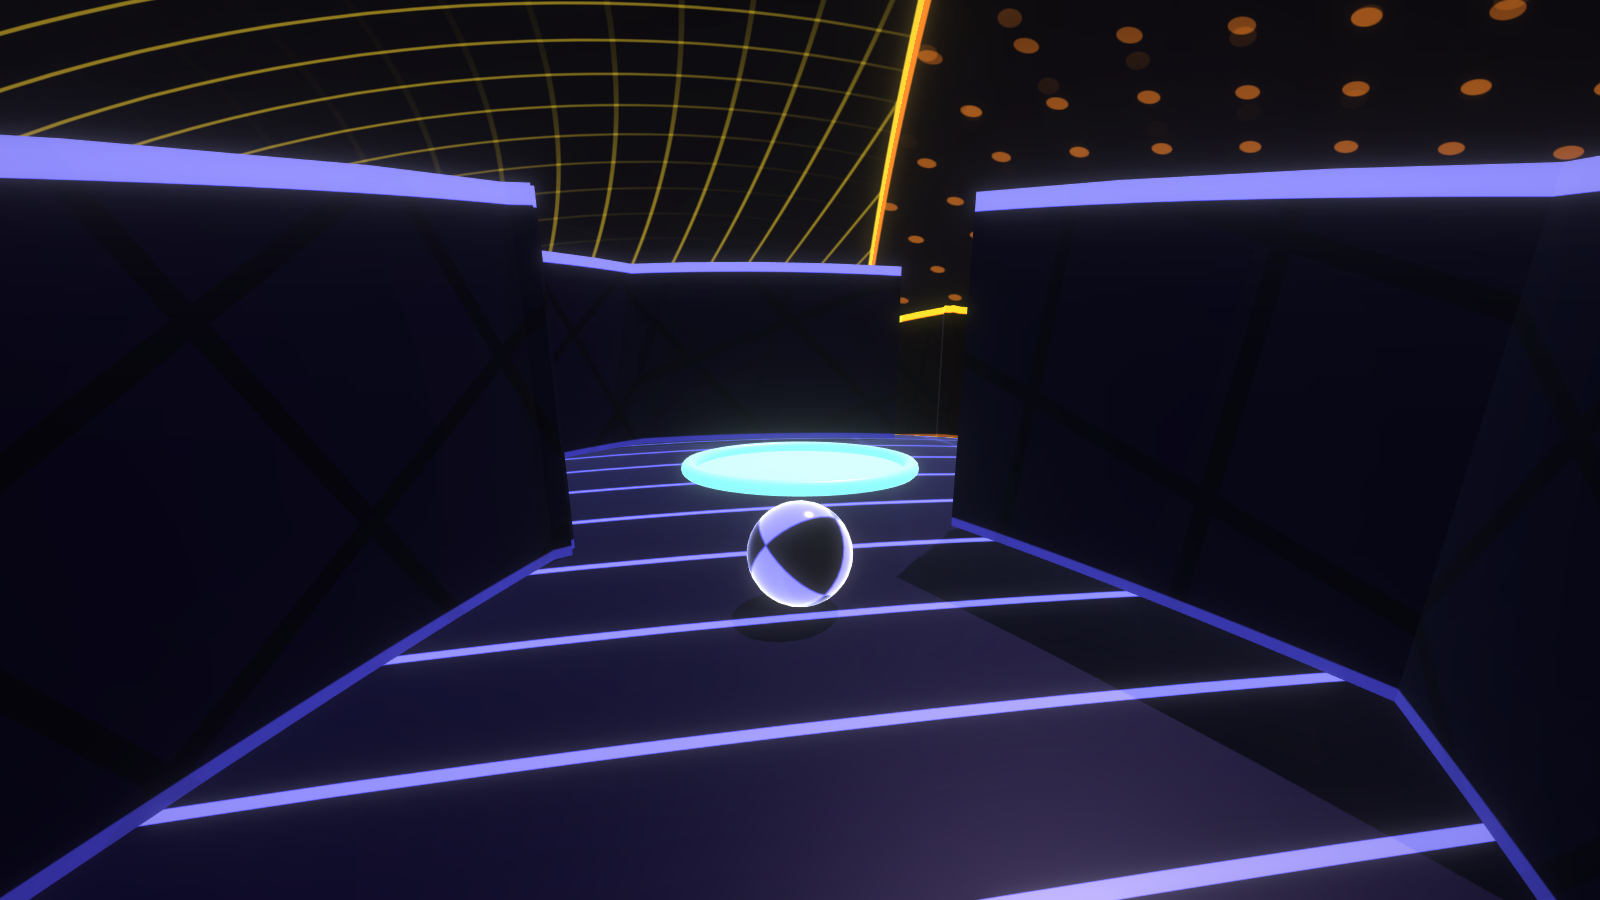
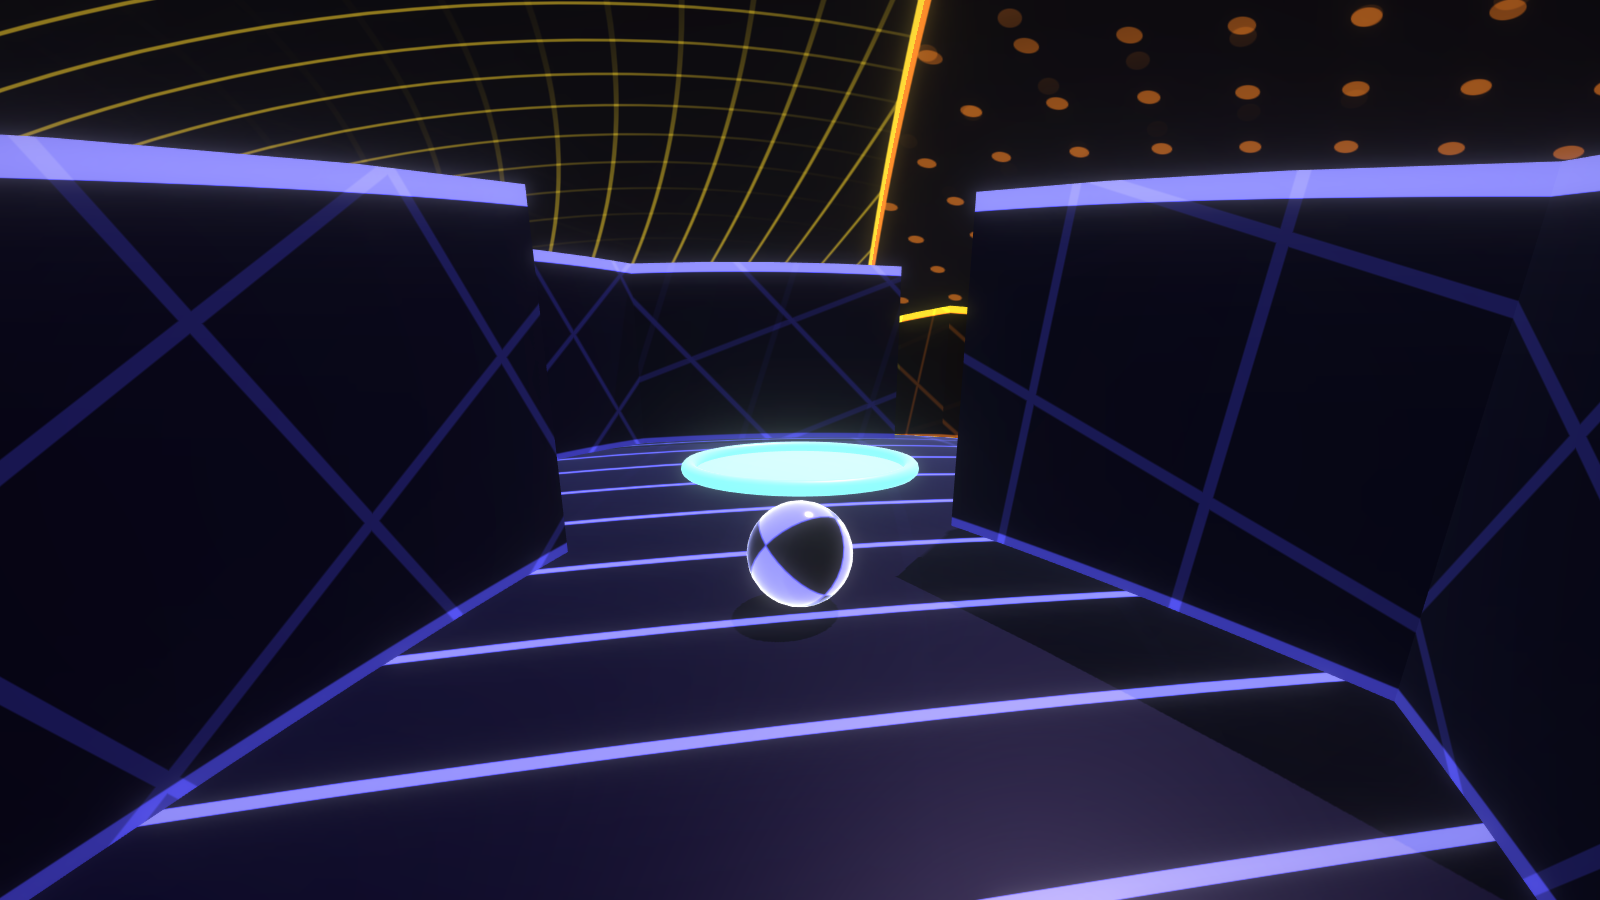
Seamless wall joints and glowing wall panel lines
- Walls are mitered at every joint: at bends the two walls meet along
  the line splitting the corner, and three-way junctions get a small
  triangular cap instead of overlapping tops.
- Walls meeting at a joint share exact corner vertices, so joints are
  watertight with no hairline cracks from rounding.
- Per-vertex normals so curved walls shade smoothly; no panel lines on
  wall tops.
- Wall panel lines glow faintly in the zone color, below the bloom
  threshold, and are thinner than the floor lines.
- README screenshot tool renders a warm-up frame first.

diff --git a/Assets/Scripts/Geometry/MeshBuilders.cs b/Assets/Scripts/Geometry/MeshBuilders.cs
@@ -117,9 +117,35 @@ namespace SphereDescent
             return MakeMesh("Core", verts, normals, new List<int>(ico.Triangles));
         }
 
+        /// <summary>Identifies a wall corner at a joint: the joint point, the two walls, and inside/outside.</summary>
+        readonly struct CornerKey : System.IEquatable<CornerKey>
+        {
+            readonly Vector3 point;
+            readonly int wallA, wallB;
+            readonly bool outside;
+
+            public CornerKey(Vector3 point, int wall, int otherWall, bool outside)
+            {
+                this.point = point;
+                wallA = Mathf.Min(wall, otherWall);
+                wallB = Mathf.Max(wall, otherWall);
+                this.outside = outside;
+            }
+
+            public bool Equals(CornerKey o) => point.Equals(o.point) && wallA == o.wallA && wallB == o.wallB && outside == o.outside;
+            public override bool Equals(object obj) => obj is CornerKey o && Equals(o);
+            public override int GetHashCode() => (point.GetHashCode() * 397 ^ wallA * 31 ^ wallB) * 2 + (outside ? 1 : 0);
+        }
+
         /// <summary>
         /// One combined mesh for every maze wall on a sphere. Each wall follows the great-circle arc between
-        /// its endpoints, sinks slightly into the ground, and is extended by half its thickness so corners close.
+        /// its endpoints and sinks slightly into the ground. Ends are shaped by what meets them, so walls join
+        /// without seams or poking corners: each side of a wall that meets another wall is mitered against it,
+        /// so at a bend the two walls meet along the line that splits the corner, and where three meet they
+        /// leave a small triangle in the middle that gets a cap on top. A free end extends by half the
+        /// thickness. Walls meeting at a joint reuse the exact same corner vertices (and the cap uses them too),
+        /// so joints are watertight rather than relying on separately computed points lining up. Normals are
+        /// per vertex, so the short flat pieces that make up each curved wall shade as one smooth surface.
         /// </summary>
         public static Mesh BuildWalls(IList<(Vector3 p0, Vector3 p1)> walls, float radius, float height, float thickness)
         {
@@ -129,46 +155,154 @@ namespace SphereDescent
             const float sink = 0.6f;
             float half = thickness * 0.5f;
 
-            foreach (var (p0, p1) in walls)
+            // Walls meeting at each endpoint. Shared endpoints are computed identically, so exact keys match.
+            var junctions = new Dictionary<Vector3, List<int>>();
+            for (int w = 0; w < walls.Count; w++)
             {
-                float ang = Vector3.Angle(p0, p1) * Mathf.Deg2Rad;
-                if (ang < 1e-5f) continue;
-                float ext = half / radius;
-                int segments = Mathf.Max(1, Mathf.CeilToInt((ang + 2f * ext) * radius / 2f));
-
-                Vector3 prevDir = Vector3.zero, prevSide = Vector3.zero;
-                for (int i = 0; i <= segments; i++)
+                foreach (var p in new[] { walls[w].p0, walls[w].p1 })
                 {
-                    float t = (-ext + (ang + 2f * ext) * i / segments) / ang;
-                    Vector3 dir = Vector3.SlerpUnclamped(p0, p1, t).normalized;
-                    Vector3 along = Vector3.ProjectOnPlane(p1 - p0, dir).normalized;
-                    Vector3 side = Vector3.Cross(dir, along).normalized * half;
-
-                    if (i == 0) AddWallCap(verts, normals, indices, dir, side, radius, sink, height, -along);
-                    if (i > 0)
-                    {
-                        Vector3 b0 = prevDir * (radius - sink), t0 = prevDir * (radius + height);
-                        Vector3 b1 = dir * (radius - sink), t1 = dir * (radius + height);
-                        Vector3 sideN = ((prevSide + side) * 0.5f).normalized;
-                        Vector3 upN = ((prevDir + dir) * 0.5f).normalized;
-                        AddQuad(verts, normals, indices, b0 + prevSide, t0 + prevSide, t1 + side, b1 + side, sideN);
-                        AddQuad(verts, normals, indices, b0 - prevSide, t0 - prevSide, t1 - side, b1 - side, -sideN);
-                        AddQuad(verts, normals, indices, t0 + prevSide, t0 - prevSide, t1 - side, t1 + side, upN);
-                    }
-                    if (i == segments) AddWallCap(verts, normals, indices, dir, side, radius, sink, height, along);
-                    prevDir = dir;
-                    prevSide = side;
+                    if (!junctions.TryGetValue(p, out var list)) junctions[p] = list = new List<int>(3);
+                    list.Add(w);
                 }
             }
 
-            return MakeMesh("Walls", verts, normals, indices);
-        }
+            // Unit direction along the surface from endpoint p into wall w.
+            Vector3 Into(int w, Vector3 p)
+            {
+                Vector3 other = walls[w].p0 == p ? walls[w].p1 : walls[w].p0;
+                return Vector3.ProjectOnPlane(other - p, p).normalized;
+            }
 
-        static void AddWallCap(List<Vector3> verts, List<Vector3> normals, List<int> indices,
-            Vector3 dir, Vector3 side, float radius, float sink, float height, Vector3 facing)
-        {
-            Vector3 b = dir * (radius - sink), t = dir * (radius + height);
-            AddQuad(verts, normals, indices, b + side, t + side, t - side, b - side, facing);
+            // How far (radians, along the arc beyond endpoint p) each side of wall w runs, and which shared
+            // corner each side ends on. "Left" is the side Cross(up, into the wall) points to.
+            void EndExtension(int w, Vector3 p, out float left, out float right, out CornerKey? leftCorner, out CornerKey? rightCorner)
+            {
+                var meeting = junctions[p];
+                left = right = half / radius;
+                leftCorner = rightCorner = null;
+                if (meeting.Count == 1) return;
+                Vector3 into = Into(w, p);
+                Vector3 leftDir = Vector3.Cross(p, into);
+                // Miter each side against the neighboring wall on that side: the side facing a wall is cut
+                // short so the two meet along the line splitting the angle between them. At a bend the outer
+                // side, with no wall to face, runs on just as far to meet the other wall's outer corner.
+                float leftMiter = float.NaN, rightMiter = float.NaN;
+                int leftWall = -1, rightWall = -1;
+                foreach (int o in meeting)
+                {
+                    if (o == w) continue;
+                    Vector3 other = Into(o, p);
+                    float angle = Vector3.Angle(into, other) * Mathf.Deg2Rad;
+                    float miter = Mathf.Clamp(half / Mathf.Tan(angle * 0.5f), 0f, 2f * half) / radius;
+                    if (Vector3.Dot(leftDir, other) > 0f)
+                    {
+                        if (float.IsNaN(leftMiter) || miter < leftMiter) { leftMiter = miter; leftWall = o; }
+                    }
+                    else if (float.IsNaN(rightMiter) || miter < rightMiter) { rightMiter = miter; rightWall = o; }
+                }
+                // A side with no wall to face (the outside of a bend) shares its corner with the other wall's
+                // outside instead.
+                left = float.IsNaN(leftMiter) ? rightMiter : -leftMiter;
+                right = float.IsNaN(rightMiter) ? leftMiter : -rightMiter;
+                leftCorner = leftWall >= 0 ? new CornerKey(p, w, leftWall, false) : new CornerKey(p, w, rightWall, true);
+                rightCorner = rightWall >= 0 ? new CornerKey(p, w, rightWall, false) : new CornerKey(p, w, leftWall, true);
+            }
+
+            // Corner vertices (bottom, top) shared by the walls meeting at each joint: the first wall to reach
+            // a joint stores its corner and the other reuses it exactly.
+            var sharedCorners = new Dictionary<CornerKey, (Vector3 bottom, Vector3 top)>();
+            void ShareCorner(CornerKey? key, ref Vector3 bottom, ref Vector3 top)
+            {
+                if (key == null) return;
+                if (sharedCorners.TryGetValue(key.Value, out var shared)) { bottom = shared.bottom; top = shared.top; }
+                else sharedCorners[key.Value] = (bottom, top);
+            }
+
+            // Top corners of the walls around each three-way junction, which outline the cap's triangle.
+            var capCorners = new Dictionary<Vector3, List<Vector3>>();
+
+            for (int w = 0; w < walls.Count; w++)
+            {
+                var (p0, p1) = walls[w];
+                float ang = Vector3.Angle(p0, p1) * Mathf.Deg2Rad;
+                if (ang < 1e-5f) continue;
+                // Sides as seen walking from p0 to p1: "a" is the side Cross(up, along) points to.
+                EndExtension(w, p0, out float startA, out float startB, out var startCornerA, out var startCornerB);
+                // From p1, "into the wall" points back toward p0, which swaps left and right.
+                EndExtension(w, p1, out float endB, out float endA, out var endCornerB, out var endCornerA);
+                int segments = Mathf.Max(1, Mathf.CeilToInt((ang + 2f * half / radius) * radius / 2f));
+
+                Vector3 prevA = Vector3.zero, prevB = Vector3.zero, prevSideA = Vector3.zero, prevSideB = Vector3.zero;
+                Vector3 pBaseA = Vector3.zero, pTopA = Vector3.zero, pBaseB = Vector3.zero, pTopB = Vector3.zero;
+                for (int i = 0; i <= segments; i++)
+                {
+                    float f = (float)i / segments;
+                    // Both sides follow the same arc but can start and end at different points (miters).
+                    Vector3 dirA = Vector3.SlerpUnclamped(p0, p1, (-startA + (ang + startA + endA) * f) / ang).normalized;
+                    Vector3 dirB = Vector3.SlerpUnclamped(p0, p1, (-startB + (ang + startB + endB) * f) / ang).normalized;
+                    Vector3 sideA = Vector3.Cross(dirA, Vector3.ProjectOnPlane(p1 - p0, dirA)).normalized;
+                    Vector3 sideB = Vector3.Cross(dirB, Vector3.ProjectOnPlane(p1 - p0, dirB)).normalized;
+                    Vector3 baseA = dirA * (radius - sink) + sideA * half, topA = dirA * (radius + height) + sideA * half;
+                    Vector3 baseB = dirB * (radius - sink) - sideB * half, topB = dirB * (radius + height) - sideB * half;
+                    if (i == 0)
+                    {
+                        ShareCorner(startCornerA, ref baseA, ref topA);
+                        ShareCorner(startCornerB, ref baseB, ref topB);
+                    }
+                    if (i == segments)
+                    {
+                        ShareCorner(endCornerA, ref baseA, ref topA);
+                        ShareCorner(endCornerB, ref baseB, ref topB);
+                    }
+
+                    Vector3 endPoint = i == 0 ? p0 : p1;
+                    bool hub = (i == 0 || i == segments) && junctions[endPoint].Count >= 3;
+                    if (hub)
+                    {
+                        // The end face is hidden under the junction cap; just record the left top corner
+                        // (seen from the junction), which the next wall around shares as its right one.
+                        if (!capCorners.TryGetValue(endPoint, out var corners)) capCorners[endPoint] = corners = new List<Vector3>(3);
+                        corners.Add(i == 0 ? topA : topB);
+                    }
+                    else if (i == 0 || i == segments)
+                    {
+                        // End face, square or mitered.
+                        Vector3 facing = Vector3.Cross(topB - baseA, topA - baseB).normalized;
+                        Vector3 outward = Vector3.ProjectOnPlane(p1 - p0, dirA) * (i == 0 ? -1f : 1f);
+                        if (Vector3.Dot(facing, outward) < 0f) facing = -facing;
+                        AddQuad(verts, normals, indices, baseA, topA, topB, baseB, facing);
+                    }
+                    if (i > 0)
+                    {
+                        AddQuad(verts, normals, indices, pBaseA, pTopA, topA, baseA, prevSideA, prevSideA, sideA, sideA);
+                        AddQuad(verts, normals, indices, pBaseB, pTopB, topB, baseB, -prevSideB, -prevSideB, -sideB, -sideB);
+                        AddQuad(verts, normals, indices, pTopA, pTopB, topB, topA, prevA, prevB, dirB, dirA);
+                    }
+                    prevA = dirA;
+                    prevB = dirB;
+                    prevSideA = sideA;
+                    prevSideB = sideB;
+                    pBaseA = baseA;
+                    pTopA = topA;
+                    pBaseB = baseB;
+                    pTopB = topB;
+                }
+            }
+
+            // Cap the small triangle left in the middle of each three-way junction.
+            foreach (var kv in capCorners)
+            {
+                if (kv.Value.Count != 3) continue;
+                Vector3 up = kv.Key.normalized;
+                var c = kv.Value;
+                int i0 = verts.Count;
+                verts.Add(c[0]); verts.Add(c[1]); verts.Add(c[2]);
+                normals.Add(up); normals.Add(up); normals.Add(up);
+                bool facesUp = Vector3.Dot(Vector3.Cross(c[1] - c[0], c[2] - c[0]), up) >= 0f;
+                indices.Add(i0); indices.Add(facesUp ? i0 + 1 : i0 + 2); indices.Add(facesUp ? i0 + 2 : i0 + 1);
+            }
+
+            return MakeMesh("Walls", verts, normals, indices);
         }
 
         /// <summary>Torus lying in the local XZ plane, centered on the origin.</summary>
@@ -228,6 +362,20 @@ namespace SphereDescent
                 indices.Add(i); indices.Add(i + 2); indices.Add(i + 1);
                 indices.Add(i); indices.Add(i + 3); indices.Add(i + 2);
             }
+        }
+
+        /// <summary>
+        /// Adds a quad with a normal per vertex (for smooth shading across neighboring quads); winding is
+        /// chosen so the quad faces the average normal.
+        /// </summary>
+        static void AddQuad(List<Vector3> verts, List<Vector3> normals, List<int> indices,
+            Vector3 v0, Vector3 v1, Vector3 v2, Vector3 v3, Vector3 n0, Vector3 n1, Vector3 n2, Vector3 n3)
+        {
+            AddQuad(verts, normals, indices, v0, v1, v2, v3, n0 + n1 + n2 + n3);
+            normals[normals.Count - 4] = n0.normalized;
+            normals[normals.Count - 3] = n1.normalized;
+            normals[normals.Count - 2] = n2.normalized;
+            normals[normals.Count - 1] = n3.normalized;
         }
 
         static Mesh MakeMesh(string name, List<Vector3> verts, List<Vector3> normals, List<int> indices)

diff --git a/Assets/Scripts/Level/LevelBuilder.cs b/Assets/Scripts/Level/LevelBuilder.cs
@@ -61,6 +61,7 @@ namespace SphereDescent
                 wallMat.SetFloat("_WallMode", 1f);
                 wallMat.SetFloat("_SurfaceRadius", radius);
                 wallMat.SetFloat("_WallHeight", s.wallHeight);
+                wallMat.SetFloat("_LineWidth", 0.025f); // thinner panel lines than the floor's
                 var wallMesh = level.Own(MeshBuilders.BuildWalls(walls, radius, s.wallHeight, s.wallThickness));
                 var wallObj = CreateMeshObject(layerRoot, "Walls", wallMesh, wallMat, true, ShadowCastingMode.On);
                 level.RegisterShadowCaster(shell, wallObj.GetComponent<MeshRenderer>());

diff --git a/Assets/Editor/SphereDescentSetup.cs b/Assets/Editor/SphereDescentSetup.cs
@@ -445,6 +445,14 @@ namespace SphereDescent.EditorTools
                 return route;
             }
 
+            // The first render of a batch-mode session can come out wrong (materials not fully set up yet),
+            // so render one throwaway frame first.
+            var warmUp = new RenderTexture(64, 64, 24);
+            cam.targetTexture = warmUp;
+            cam.Render();
+            cam.targetTexture = null;
+            Object.DestroyImmediate(warmUp);
+
             float r0 = settings.shellRadii[0];
             var g0 = layout.Grids[0];
             Vector3 start = g0.CellCenters[layout.StartCell];
